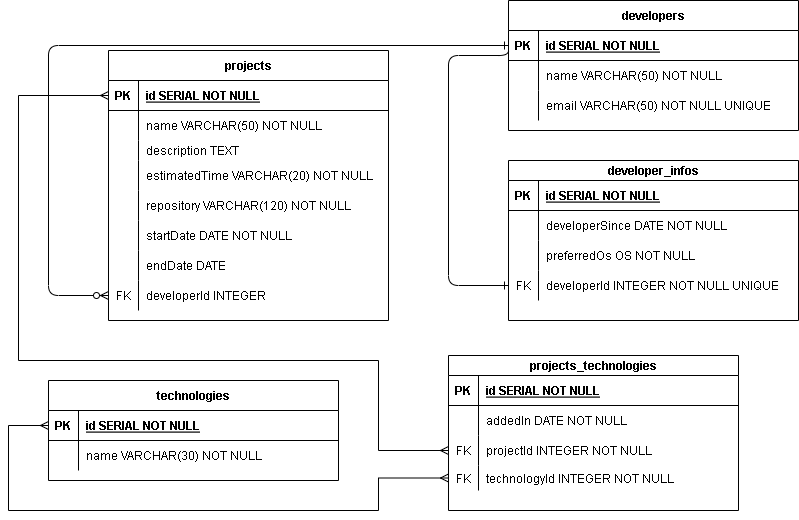
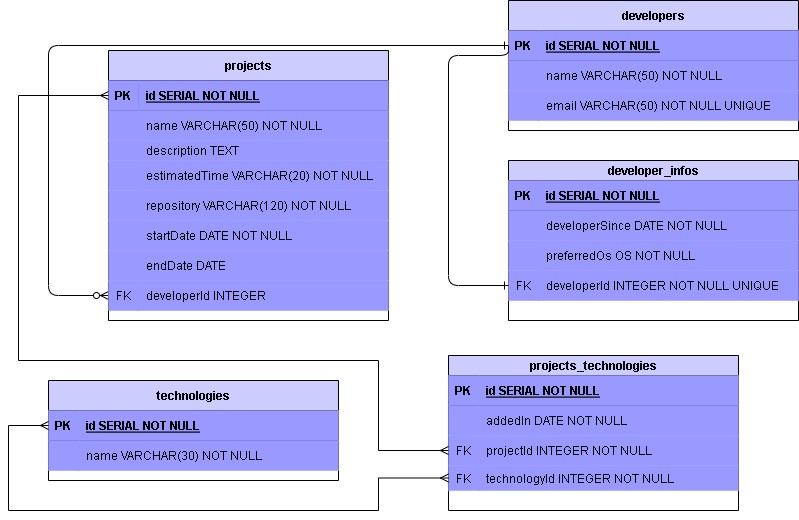
alteracao nas cores das tabelas do diagrama e criacao dos middlewares

diff --git a/src/middleware/projects.middlewares.ts b/src/middleware/projects.middlewares.ts
@@ -1,0 +1,68 @@
+import { QueryConfig, QueryResult } from "pg";
+import { IDevelopers } from "../interfaces/interfaces.developers";
+import { client } from "../database";
+import { NextFunction, Request, Response } from "express";
+
+const ensureDeveloperInProject = async (
+  req: Request,
+  res: Response,
+  next: NextFunction
+): Promise<Response | void> => {
+  const id = req.body.id;
+
+  const queryString = `
+        SELECT
+            *
+        FROM
+            developers
+        WHERE
+            id = $1;
+    `;
+
+  const queryConfig: QueryConfig = {
+    text: queryString,
+    values: [id],
+  };
+
+  const queryResult: QueryResult<IDevelopers> = await client.query(queryConfig);
+  if (queryResult.rowCount === 0) {
+    return res.status(404).json({
+      message: "Developer not found.",
+    });
+  }
+
+  return next();
+};
+
+const verifyProjectExists = async (
+  req: Request,
+  res: Response,
+  next: NextFunction
+): Promise<Response | void> => {
+  const id: number = Number(req.params.id);
+
+  const queryString = `
+      SELECT
+            *
+        FROM
+            projects
+        WHERE
+            id = $1;
+    `;
+
+  const queryConfig: QueryConfig = {
+    text: queryString,
+    values: [id],
+  };
+
+  const queryResult: QueryResult<IDevelopers> = await client.query(queryConfig);
+  if (queryResult.rowCount === 0) {
+    return res.status(404).json({
+      message: "Project not found.",
+    });
+  }
+
+  return next();
+};
+
+export { ensureDeveloperInProject, verifyProjectExists };

diff --git a/src/app.ts b/src/app.ts
@@ -20,6 +20,10 @@ import {
   verifyOS,
 } from "./middleware/developers.middlewares";
 import { listDevAndProjects } from "./logics/developers/listDevAndProjects.logic";
+import {
+  ensureDeveloperInProject,
+  verifyProjectExists,
+} from "./middleware/projects.middlewares";
 
 const app: Application = express();
 app.use(express.json());
@@ -36,11 +40,26 @@ app.post(
   createInfoDev
 );
 
-app.post("/projects", ensureIdDevExists, createProject);
-app.get("/projects/:id", listProjectById);
-app.patch("/projects/:id", ensureIdDevExists, updateProject);
-app.delete("/projects/:id", deleteProject);
-app.post("/projects/:id/technologies", addTechInProject);
-app.delete("/projects/:id/technologies/:name", deleteTechinProject);
+app.post(
+  "/projects",
+  ensureIdDevExists,
+  ensureDeveloperInProject,
+  createProject
+);
+app.get("/projects/:id", verifyProjectExists, listProjectById);
+app.patch(
+  "/projects/:id",
+  ensureIdDevExists,
+  verifyProjectExists,
+  ensureDeveloperInProject,
+  updateProject
+);
+app.delete("/projects/:id", verifyProjectExists, deleteProject);
+app.post("/projects/:id/technologies", verifyProjectExists, addTechInProject);
+app.delete(
+  "/projects/:id/technologies/:name",
+  verifyProjectExists,
+  deleteTechinProject
+);
 
 export default app;

diff --git a/src/logics/projects/listProjectById.logic.ts b/src/logics/projects/listProjectById.logic.ts
@@ -37,7 +37,7 @@ const listProjectById = async (
 
   const queryResult: QueryResult = await client.query(queryConfig);
 
-  return res.status(200).json(queryResult.rows);
+  return res.status(200).json(queryResult.rows[0]);
 };
 
 export { listProjectById };
